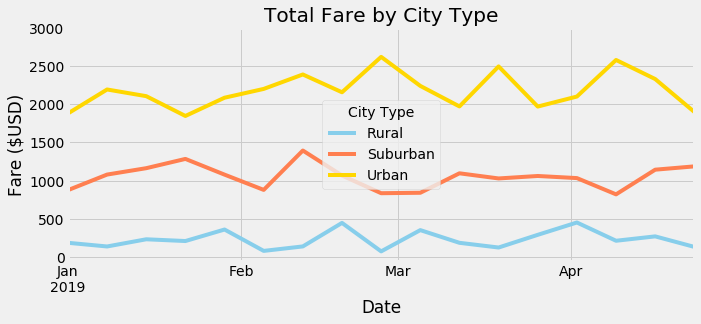
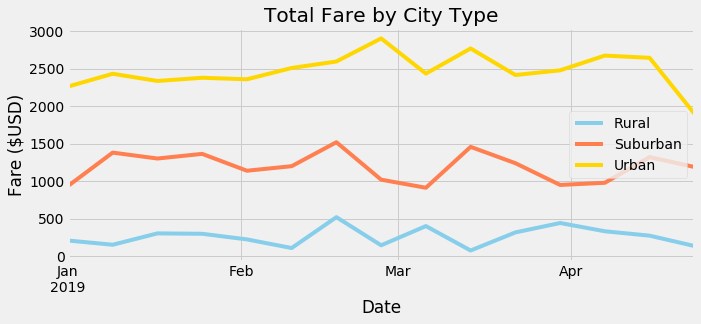
fixed resample_mine and README

diff --git a/README.md b/README.md
@@ -55,7 +55,7 @@ Analysis of ride-sharing data revealed clear stratification in total rides, tota
 
 ### Overcoming Challenges & Technical Analyses Used
 #### Programming
-- Internet searches of official documentation, Stack Overflow, and forums were performed to find examples of what code was used and how it was applied, followed by trial and error in Jupyter Notebook. Pandas API reference for [pandas.DataFrame.resample](https://pandas.pydata.org/pandas-docs/stable/reference/api/pandas.DataFrame.resample.html) showed how to used '3T' to split a series into 3 minute bins (Figure 2). For this analysis, I trialed '7D' with unexpected success (Figure 3).  
+- Internet searches of official documentation, Stack Overflow, and forums were performed to find examples of what code was used and how it was applied, followed by trial and error in Jupyter Notebook. Pandas API reference for [pandas.DataFrame.resample](https://pandas.pydata.org/pandas-docs/stable/reference/api/pandas.DataFrame.resample.html) showed how to used '3T' to split a series into 3 minute bins (Figure 2). For this analysis, I trialed '8D' with unexpected success (Figure 3).  
 
 Figure 2. Pandas API Reference
 
